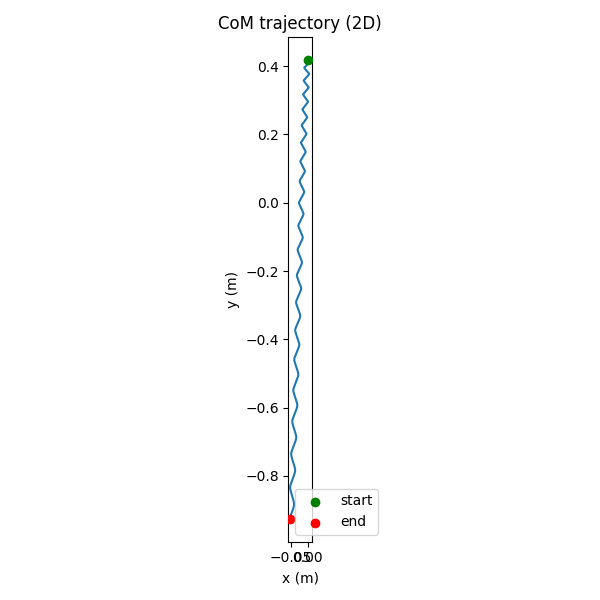
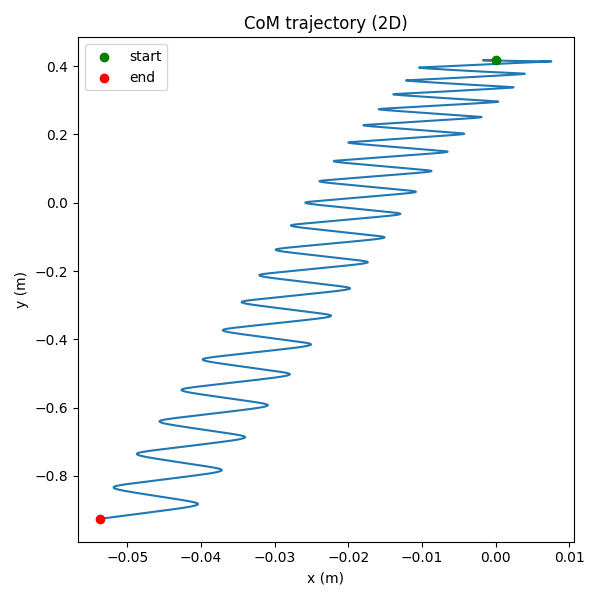
Metrics correction + ex1.1 done

diff --git a/Project1/Python/exercise1_1.py b/Project1/Python/exercise1_1.py
@@ -97,13 +97,13 @@ def post_processing():
         cot)
 
     #Angles
-    n_cycles = 3
+    n_cycles = 6
     T = 1.0 / np.mean(freq) 
     t_end = n_cycles * T
     mask = sim_times <= t_end
 
     fig1, ax1 = plt.subplots(figsize=(10, 4))
-    for j in range(sensor_data_joints_positions.shape[1]):
+    for j in range(8):
         ax1.plot(sim_times[mask], sensor_data_joints_positions[mask, j],
                  label=f'joint {j}')
     ax1.set_xlabel('Time (s)')
@@ -124,7 +124,6 @@ def post_processing():
     ax2.set_ylabel('y (m)')
     ax2.set_title('CoM trajectory (2D)')
     ax2.legend()
-    ax2.set_aspect('equal')
     plt.tight_layout()
     plt.savefig(BASE_PATH + 'com_trajectory.png')
 
